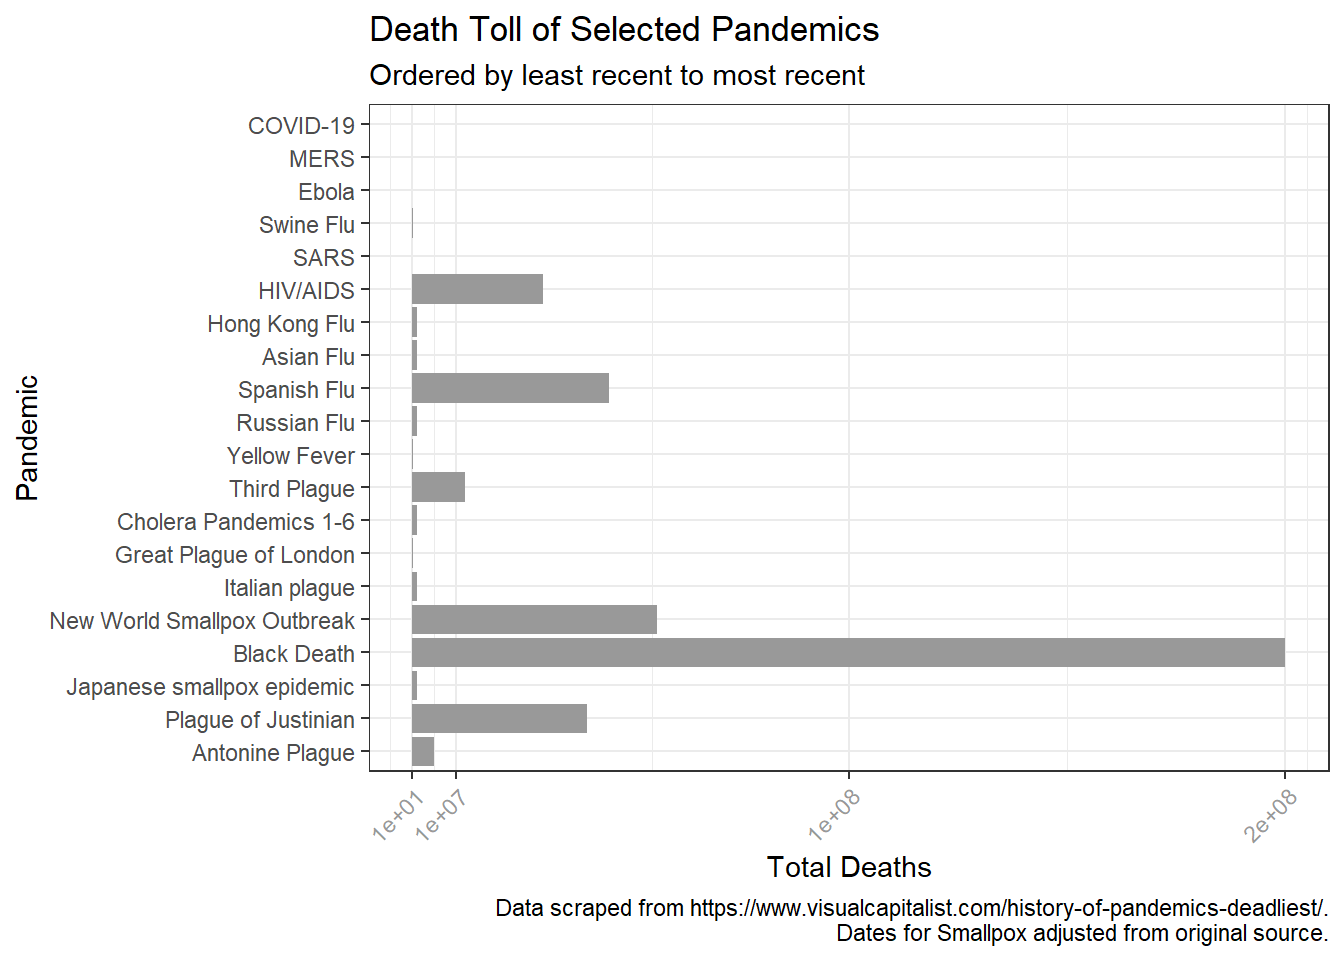
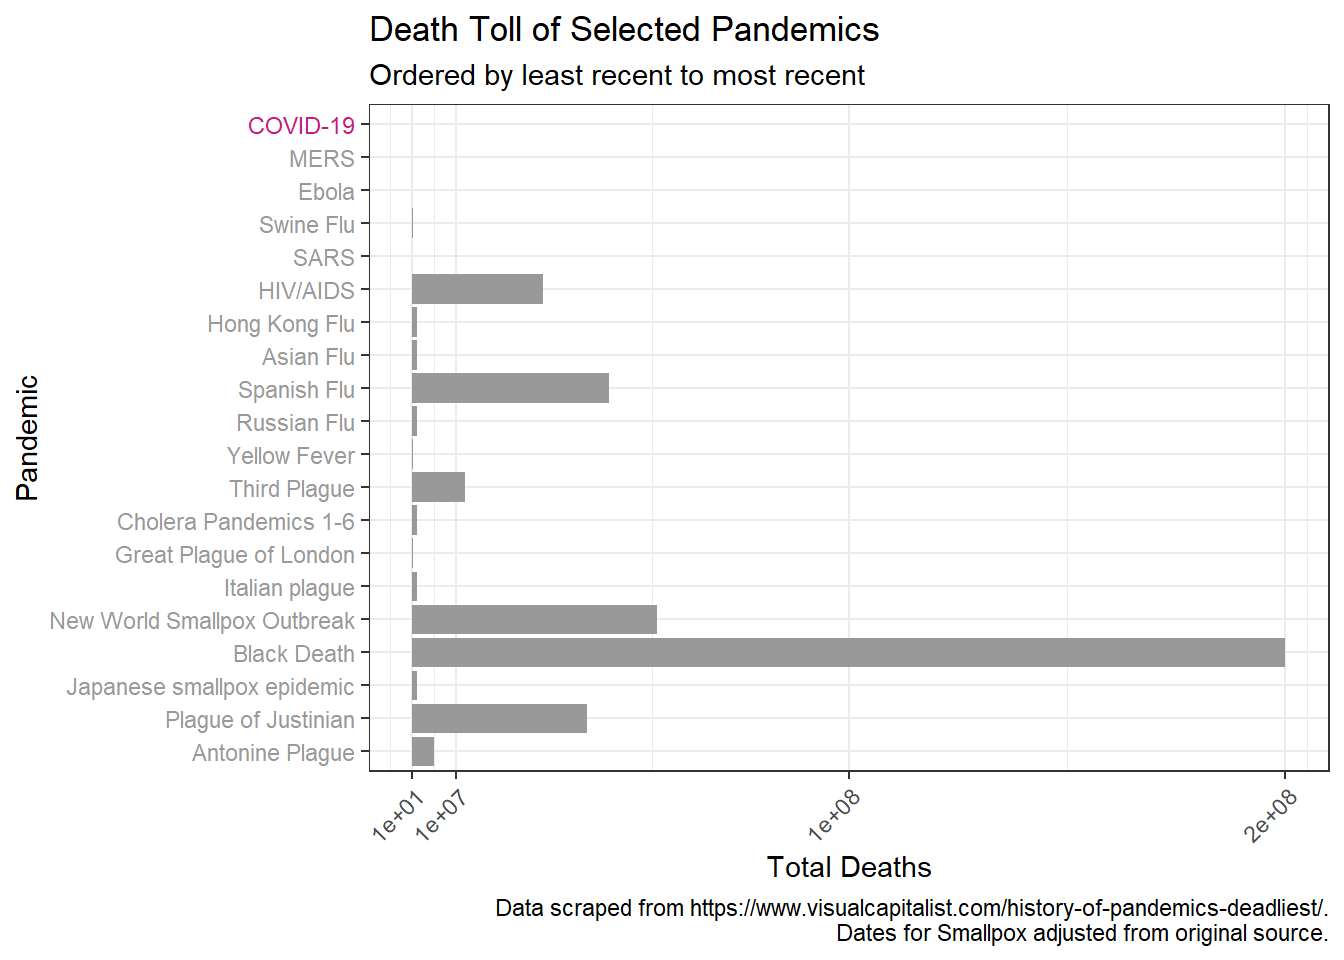
fix text highlighting in corvid post

diff --git a/blog/covid-19-and-other-pandemics/index.html b/blog/covid-19-and-other-pandemics/index.html
@@ -443,7 +443,8 @@ p + scale_y_continuous(breaks = c(1*10^1, 1*10^7, 1*10^8, 2*10^8 ),
   geom_col(aes(fill = Name)) +
   scale_fill_manual(values = cols) + 
   theme_bw() +
-  theme(axis.text.x = element_text(hjust=1, angle=45, colour = text_col)) +
+  theme(axis.text.x = element_text(hjust=1, angle=45),
+        axis.text.y = element_text(colour = text_col)) +
   guides(fill = FALSE) +
   labs(title = &quot;Death Toll of Selected Pandemics&quot;,
        subtitle = &quot;Ordered by least recent to most recent&quot;,
@@ -473,7 +474,8 @@ pandem_df %&gt;%
   scale_y_log10((breaks = c(1*10^1, 1*10^2, 1*10^3, 1*10^4, 1*10^5,
                                 1*10^6, 1*10^7,1*10^8))) +
   theme_bw() +
-  theme(axis.text.x = element_text(hjust=1, angle=45, colour = text_col)) +
+  theme(axis.text.x = element_text(hjust=1, angle=45),
+        axis.text.y = element_text(colour = text_col)) +
   guides(fill = FALSE) +
   labs(title = &quot;Death Toll of Selected Pandemics&quot;,
        subtitle = &quot;Ordered by least recent to most recent&quot;,
@@ -488,7 +490,8 @@ pandem_df %&gt;%
   geom_col(aes(fill = Name)) +
   scale_fill_manual(values = cols) + 
   theme_bw() +
-  theme(axis.text.x = element_text(hjust=1, angle=45, colour = text_col)) +
+  theme(axis.text.x = element_text(hjust=1, angle=45),
+        axis.text.y = element_text(colour = text_col)) +
   guides(fill = FALSE) +
   labs(title = &quot;Death Toll of Selected Pandemics&quot;,
        subtitle = &quot;Ordered by least recent to most recent&quot;,
